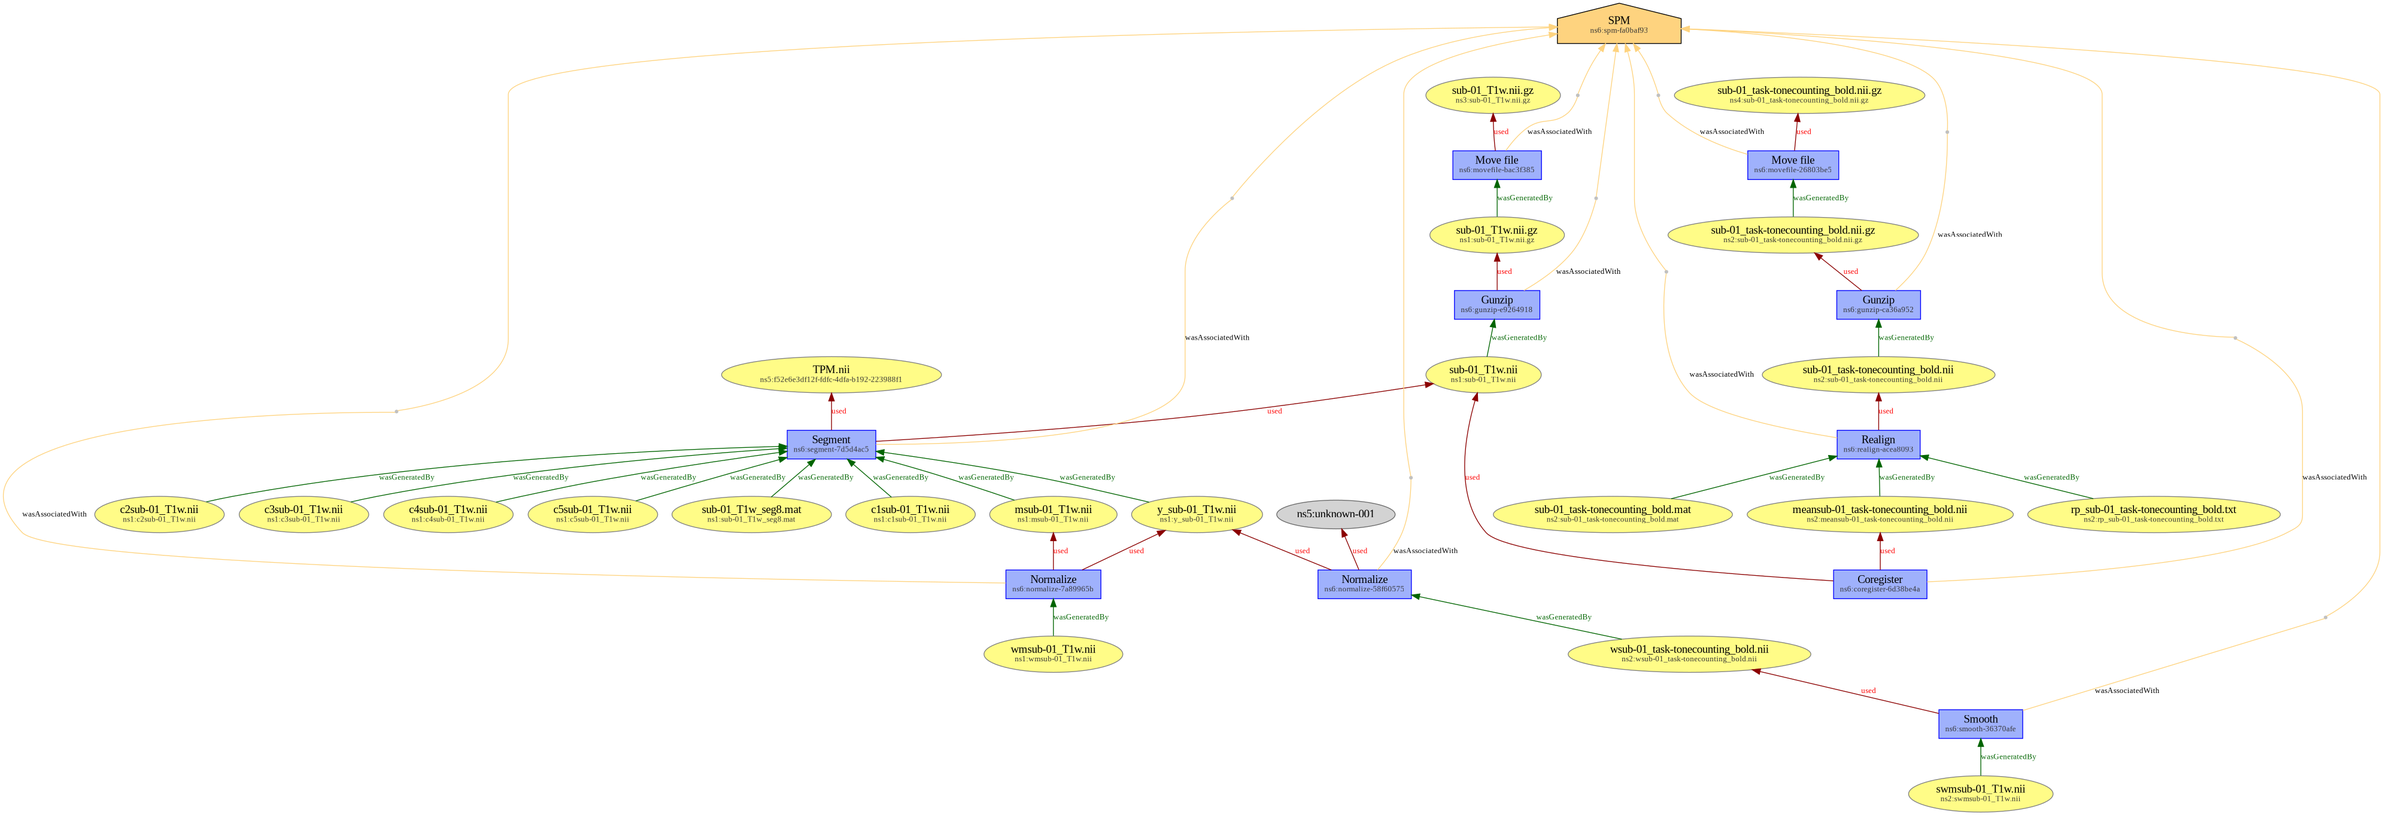
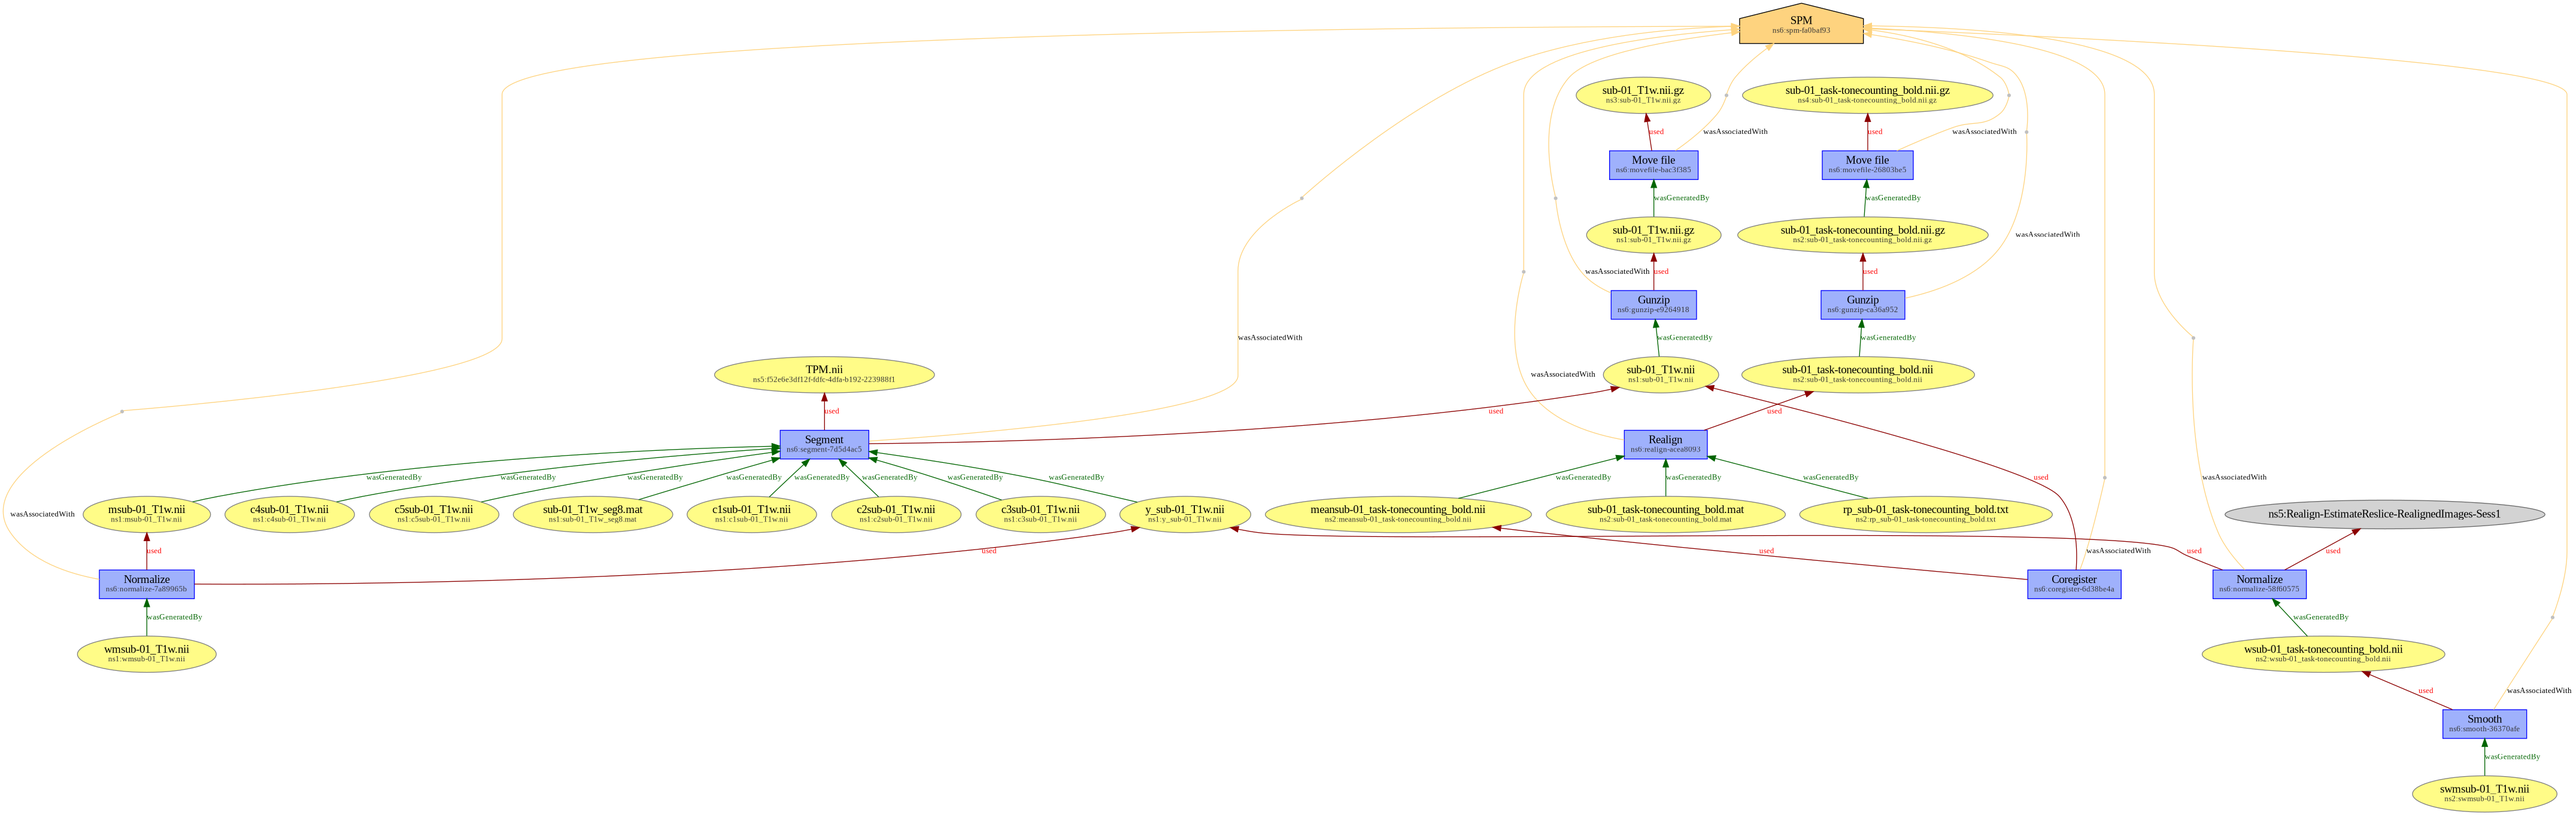
Directory tree

diff --git a/provenance_spm/README.md b/provenance_spm/README.md
@@ -1,32 +1,60 @@
 # BEP028 example dataset - Provenance records for SPM based fMRI statistical analysis
 
-This example aims at showing provenance records for a statistical analysis performed with [`SPM`](https://www.fil.ion.ucl.ac.uk/spm/). Provenance records were created manually ; they act as a guideline for further machine-generated records by `SPM`. 
+This example aims at showing provenance records for a functional MRI preprocessing performed with [`SPM`](https://www.fil.ion.ucl.ac.uk/spm/). Provenance records were created manually ; they act as a guideline for further machine-generated records by `SPM`. 
 
-This is a derivative dataset, based upon:
-* OpenfMRI DS000011 classification learning and tone counting experiment (cf. https://openfmri.org/dataset/ds000011/)
-* SPM single subject t-test results from subject 01 of DS000011, performed using the [SPM batch file](https://github.com/incf-nidash/nidmresults-examples/blob/master/spm_default/batch.m) from the [NIDM Results example `spm_default`](https://github.com/incf-nidash/nidmresults-examples/tree/master/spm_default)
+## Source dataset
+
+This is a derivative dataset, based upon `sub-01` data from OpenfMRI DS000011 classification learning and tone counting experiment (cf. https://openfmri.org/dataset/ds000011/)
+
+## Code
+
+The Matlab batch file `code/spm_preprocessing.m` allows to perform the preprocessing.
+
+## Directory tree
 
 The directory tree is as follows:
 
 ```
-prov/
-├── prov-spm_act.json
-├── prov-spm_ent.json
-├── prov-spm_env.json
-└── prov-spm_soft.json
-sub-01/
-└── ???
-    ├── 
-    └── 
+.
+├── code
+│   ├── merge_prov.py
+│   └── spm_preprocessing.m
+├── dataset_description.json
+├── prov
+│   ├── prov-spm_act.json
+│   ├── prov-spm_ent.json
+│   ├── prov-spm.jsonld
+│   ├── prov-spm.png
+│   └── prov-spm_soft.json
+├── README.md
+└── SPM
+    └── PREPROCESSING
+        ├── ANATOMICAL
+        │   ├── c1sub-01_T1w.nii
+        │   ├── c2sub-01_T1w.nii
+        │   ├── c3sub-01_T1w.nii
+        │   ├── c4sub-01_T1w.nii
+        │   ├── c5sub-01_T1w.nii
+        │   ├── msub-01_T1w.nii
+        │   ├── sub-01_T1w.nii
+        │   ├── sub-01_T1w.nii.gz
+        │   ├── sub-01_T1w_seg8.mat
+        │   ├── wmsub-01_T1w.nii
+        │   └── y_sub-01_T1w.nii
+        └── FUNCTIONAL
+            ├── meansub-01_task-tonecounting_bold.nii
+            ├── rp_sub-01_task-tonecounting_bold.txt
+            ├── sub-01_task-tonecounting_bold.mat
+            ├── sub-01_task-tonecounting_bold.nii
+            ├── sub-01_task-tonecounting_bold.nii.gz
+            ├── swsub-01_task-tonecounting_bold.nii
+            └── wsub-01_task-tonecounting_bold.nii
+
 ```
 
 TODOs:
-- [ ] finish changing ids from the original jsonld file (currently in prov-spm_act.json)
-- [ ] split activities / entities / env / soft into separated files
-- [ ] > how to represent temporary files in the dataset ? -> we don't store them
-- [ ] > where to save final files in the dataset ?
 - [ ] finish readme & check if missing metadata in the dataset_description
 - [ ] use sidecar JSONs ?
 - [ ] add example in the list > must anat, func, T1w and bold be mentioned ? Where to say that it is a derivative dataset ?
 
-provenance_spm_default Provenance records for a statistical analysis performed with [`SPM`](https://www.fil.ion.ucl.ac.uk/spm/). This example is buid upon [ds000011](cf. https://openfmri.org/dataset/ds000011/) data and the [NIDM Results example `spm_default`](https://github.com/incf-nidash/nidmresults-examples/tree/master/spm_default) code. [@bclenet](https://github.com/bclenet) anat, func T1w(?), bold(?), act, ent, env, soft
+provenance_spm_default Provenance records for a statistical analysis performed with [`SPM`](https://www.fil.ion.ucl.ac.uk/spm/). This example is buid upon [ds000011](cf. https://openfmri.org/dataset/ds000011/) data and the [NIDM Results example `spm_default`](https://github.com/incf-nidash/nidmresults-examples/tree/master/spm_default) code. [@bclenet](https://github.com/bclenet) anat, func T1w, bold, seg8, act, ent, soft
